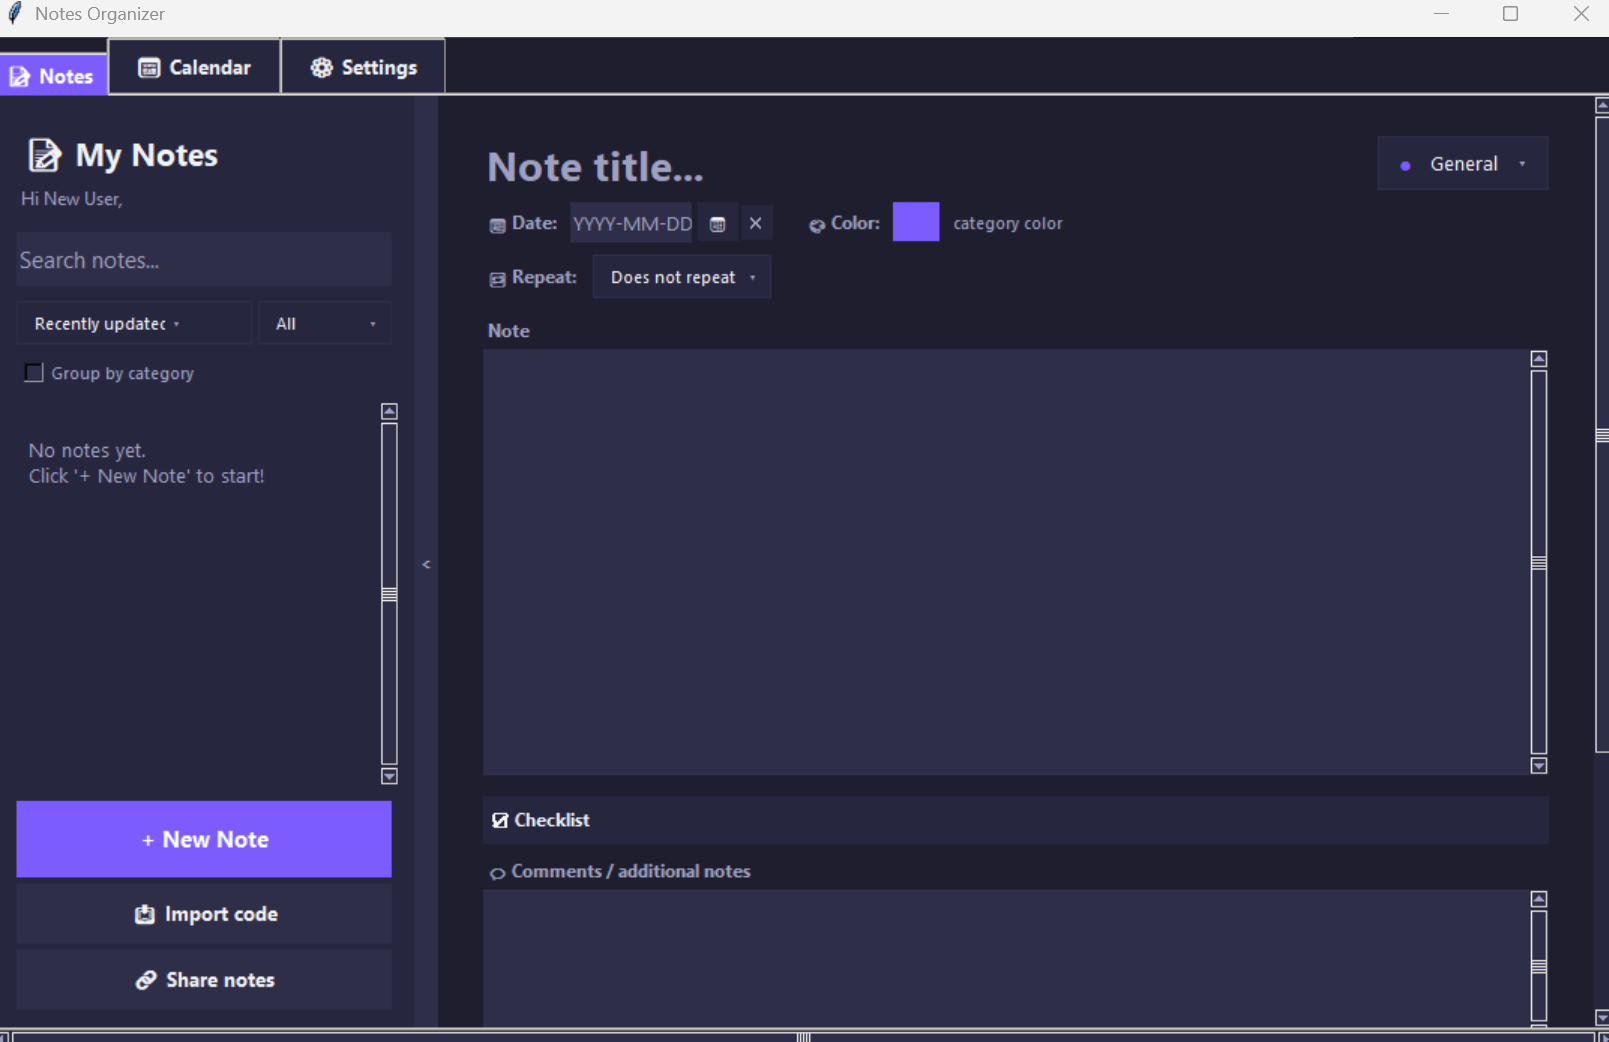
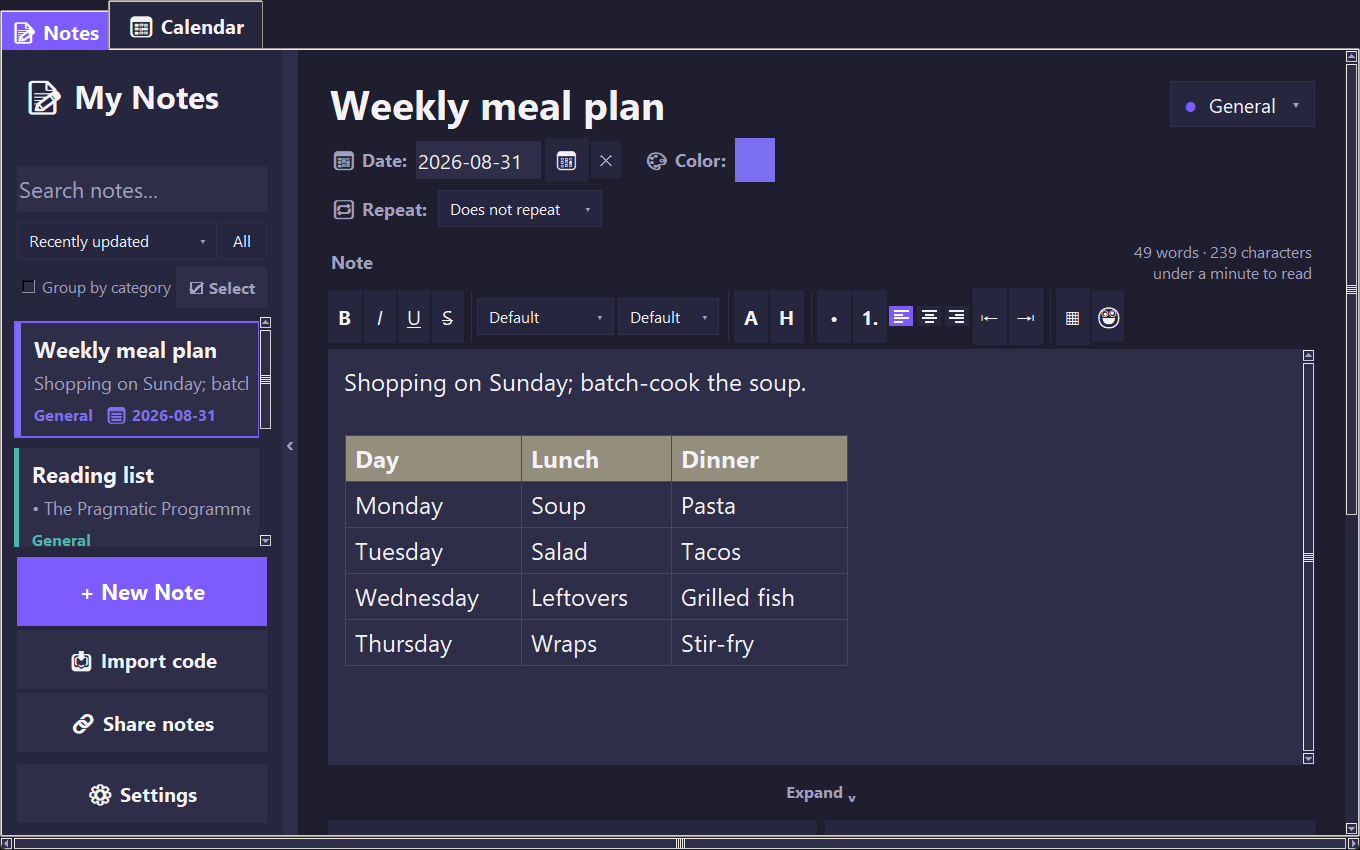
docs: the project introduces itself — tables everywhere they belong, a lived-in screenshot
The README's feature list gains the Tables block and its placeholder
caption goes: main-window.png is now a staged, real capture of the app
holding a meal-plan table with a highlighted header (taken from the
actual app in a sealed sandbox). The User Guide gains a full Tables
section in its own plain voice, with a cropped screenshot; ARCHITECTURE
gains 'Tables: plain text is the store, a drawn grid is the view' -- the
design decision an interviewer should meet first; ROADMAP's 'a simple
table feature' bullet catches up with what the branch actually built.

CLAUDE.md records the new standing rule: cross-feature verification --
a change is done when the OLD features still work with it, with qa
checks on the seams.

diff --git a/docs/USER_GUIDE.md b/docs/USER_GUIDE.md
@@ -65,6 +65,23 @@ Colours are treated carefully. If you copy from a site in dark mode, you get its
 
 Not every kind of styling can survive. A note can be bold, italic, underlined, struck through, coloured, highlighted, set in one of eight fonts, made into a list, indented and aligned. Anything a web page does beyond that — a heading style, a box, a background image — is dropped and its words kept, rather than being turned into an approximation of itself. Font sizes and typefaces from a web page are dropped for the same reason: the page is almost certainly using something this app does not offer, and picking the nearest one would claim the note is set in something it never was.
 
+### Tables
+
+The table button on the toolbar opens a small size grid — sweep across it to choose how many rows and columns, and a table appears at the cursor with the first cell ready to type into.
+
+![A table in a note, with a highlighted header row](screenshots/tables.png)
+
+A table works the way a spreadsheet has taught your hands to expect:
+
+- **Type** in a cell, press **Tab** to move to the next one (**Shift+Tab** goes back). Tab on the very last cell adds a fresh row, so a whole table can be filled without touching the mouse. **Enter** finishes the table and puts the cursor on the line below it.
+- **Click** any cell to edit it. **Drag** across cells to select a block of them — then **Ctrl+C** copies it, **Ctrl+V** somewhere else pastes it in the same shape, and **Delete** clears it. Copying works with the outside world in both directions: cells copied here paste into Excel as cells, and a table copied from Excel or a web page lands here as a real table.
+- **Right-click** a cell for everything else: merge the selected cells into one (their texts join), split a merge back apart, insert or delete rows and columns, duplicate whole columns to the end of the table, insert a checkmark or an emoji, and highlight cells from a small colour palette.
+- **Drag the line between two columns** to make a column wider or narrower; **double-click** the line to snap the column to its content. Narrowing below the content only shortens what is *drawn* (with an `…`) — the text itself is never cut.
+- **Hide a column** by selecting it top to bottom and right-clicking — it shrinks to a thin sliver, and right-clicking the sliver brings it back. Hiding only ever works on a fully selected column, so it is always clear what is about to disappear.
+- The **formatting toolbar works inside tables** too: select cells (or just have one open) and Bold, colours and highlights apply to them. The alignment buttons align the text inside the selected cells; to move the *table itself*, right-click it and choose **Center table on page** (or left / right).
+
+Under the hood a table is stored as plain, readable text inside the note — the same pipe-and-dash layout Markdown uses. That is why search finds words inside cells, why tables survive share codes, backups and export unchanged, and why a table pasted into any Markdown-aware tool arrives as a table. The bullet and numbering buttons deliberately do nothing to a table — a table is not a list, and turning its rows into list items would break it apart.
+
 ### How long a note takes to read
 
 Under the word and character counts, each note shows roughly how long it takes to read — "under a minute to read" for a short one, "about 4 minutes to read" for a longer one.

diff --git a/docs/ARCHITECTURE.md b/docs/ARCHITECTURE.md
@@ -148,6 +148,22 @@ The formatting toolbar wraps when it will not fit on one row, so no control can 
 
 That split is deliberate, and it was learned the hard way. A check that measures widget widths is testing whatever font the machine has: the same bar is 577px here and 827px under Xvfb, and which control lands on a row boundary — and therefore whether the bug shows at all — moves with it. Given numbers, the same inputs give the same answer everywhere, so the behaviour can be pinned down exactly. The widget side keeps only the measuring and the packing.
 
+### Tables: plain text is the store, a drawn grid is the view
+
+A table in a note is stored as ordinary lines of text in the note body, in Markdown's own table syntax:
+
+```
+| Day       | Lunch  |
+| :-------: | ------ |
+| Monday    | Soup   |
+```
+
+What the user *sees* is none of that: the pipe lines are hidden, and a canvas-drawn grid is embedded in their place — real cell borders, a highlighted header, merged cells, one floating entry box that materialises over whichever cell is being edited (the spreadsheet architecture: hundreds of cells are cheap to *draw*, and only one of them ever needs to be a live widget).
+
+Keeping the text as the single source of truth is the load-bearing decision. Search finds words inside cells because they are simply words in the note. Share codes, backups, export and word count carry tables with zero table-specific code. A table pasted from Excel or a web page becomes text and therefore a grid; a table copied out arrives in any Markdown-aware tool as a table. And the second row — `| :---: | --- |` — is not decoration: the dash count stores each column's hand-dragged width, the colons store its alignment, and a `~` marks a hidden column, so even *layout* survives every trip through plain text.
+
+The grid is rebuilt (never patched) at settled moments — load, paste, leaving the block, a structural edit — and every editing gesture writes through to the hidden text first, so the drawn view can always be thrown away and rebuilt from it. The costs live where they can be tested: Tk counts text columns in UTF-16 units (an emoji is two of them), embedded windows occupy an index but are skipped by character counts, and a rebuild mid-gesture destroys the canvas under the mouse — each of those has burned this codebase once, and each now has a regression check in `qa/qa1.py` and a war story in [ISSUES_LOG.md](ISSUES_LOG.md).
+
 ### Large lists: paginate, don't virtualize (yet)
 
 Trash and the multi-note Share panel both cap how many rows they build at once (50 and 100 respectively), with a "Show more" button to reveal the next batch, rather than rendering every entry immediately. This was enough to take the Trash panel from ~1.8s to ~100ms with 600 entries. The main note list doesn't do this yet — see [ROADMAP.md](ROADMAP.md) for real windowed virtualization, which would help further at very large note counts.

diff --git a/docs/ROADMAP.md b/docs/ROADMAP.md
@@ -77,7 +77,7 @@ This section is only about the app's own `APP_VERSION`/`CHANGELOG.md` numbering 
 ## Under consideration
 
 - **Rich text formatting, continued.** Phase 1 shipped in `0.31.39`: a Bold/Italic/Underline/Strikethrough toolbar and right-click menu, with keyboard shortcuts, applying either to a selection or to whatever's typed next. Phase 2a shipped in `0.32.44`: text color and highlight, added to the same toolbar with swatch-style pickers (no hex-code entry — see `CHANGELOG.md`). Phase 2b shipped in `0.34.51`: paragraph formatting — bullet and numbered lists with multilevel nesting, indentation and alignment (see `CHANGELOG.md` for why numbered levels are not lettered). Quote blocks shipped with it and were removed again in `0.36.54`. Phase 3 shipped in `0.35.51`: font size and family, per selection and as an app-wide default. Phase 4 shipped in `0.37.56`: paste that keeps its source formatting, with Ctrl+Shift+V for plain text, and copy that carries formatting out. **Rich text formatting is complete.** The table feature below now has the prerequisite it was waiting on — a pasted table arrives as HTML, and `core/richtext.py` is where its `<table>` would be understood.
-- **A simple table feature** for structured content within a note.
+- **Tables** — built on the `feat/tables` branch, release pending. What began as "a simple table feature" grew into a spreadsheet-style grid: drawn cells with one floating editor, merges, per-column width/alignment/hiding stored in Markdown's own separator-row syntax, cell highlighting from the formatting toolbar, block copy/paste that round-trips with Excel, and a table that can sit left/centred/right on the page. The note's plain text remains the single source of truth throughout — see [ARCHITECTURE.md](ARCHITECTURE.md), "Tables: plain text is the store".
 - **Note list virtualization.** The main note list currently builds a full widget per note on every refresh. Trash and the Share panel already cap what they render up front (see [ARCHITECTURE.md](ARCHITECTURE.md)); doing the same for the main list — or true windowed rendering, building only the cards currently scrolled into view — would help further at very large note counts (many hundreds to thousands).
 - **Split the UI into modules.** The data and rules layer is done — twelve modules under `noteorganizer/core/`, none importing tkinter (see [ARCHITECTURE.md](ARCHITECTURE.md)). **Split the UI into modules — done.** Five areas now live in `noteorganizer/ui/` as mixins: the calculator panel, the Settings page, the dialogs and popups, the calendar, and attachments. All the pure logic went down into `noteorganizer/core/` first. `note_organizer.py` is about 7,790 lines, from 11,147 when the reorganisation began — it has grown again since, with the rich-text work, but the pure logic behind that went into `core/` rather than into it.
 

diff --git a/README.md b/README.md
@@ -4,8 +4,8 @@ A fast, fully offline desktop notes app built with Python and Tkinter — no clo
 
 Built as a solo/pair project (developer + AI pairing partner) over an extended iterative development cycle, with a strong focus on real-world polish: a custom themed UI (no OS-native popups anywhere), a recurring-events engine, background-threaded import/export, and a defensive data layer that keeps the app usable even when things go wrong.
 
-![screenshot placeholder](docs/screenshots/main-window.png)
-*(screenshots to be added — see [docs/screenshots](docs/screenshots))*
+![The main window: a note with a table, the formatting toolbar, and the notes sidebar](docs/screenshots/main-window.png)
+*More screenshots throughout the [User Guide](docs/USER_GUIDE.md).*
 
 ---
 
@@ -32,6 +32,12 @@ Built as a solo/pair project (developer + AI pairing partner) over an extended i
 - End conditions: after N occurrences, by a date, or never
 - Per-occurrence editing and deletion ("just this one" vs "this and all future")
 - A full calendar view with month navigation, jump-to-date, and per-day coloring
+
+**Tables**
+- Spreadsheet-style tables drawn as a real grid: click a cell to edit, drag to select, Tab to move, Enter to leave
+- Excel-familiar editing: copy/paste blocks of cells (in and out of the app — a table pasted from Excel or a web page becomes a grid), merge cells, insert/delete/duplicate rows and columns, hide columns, drag a column edge to resize (double-click it to autofit)
+- Cell formatting from the same toolbar as regular text: bold, colors, highlights (with a theme-aware palette), per-cell alignment — plus the table itself can sit left, centred, or right on the page
+- Stored as plain readable text (Markdown table syntax) inside the note, so tables survive search, share codes, backups, and export, and travel cleanly to and from any Markdown-aware tool
 
 **Categories & templates**
 - Custom categories with colors, safely renameable/deletable (with reassignment of affected notes)

diff --git a/CLAUDE.md b/CLAUDE.md
@@ -122,6 +122,26 @@ After making a change:
 
 When fixing a bug, prefer adding a regression test when practical.
 
+### Cross-feature verification (standing rule, 2026-08-28)
+
+A new feature is not done when it works alone — it is done when the
+older features it crosses still work with it. Before reporting a change
+complete:
+
+1. List the existing features whose paths the change touches (theming,
+   save/load, export/share codes, paste, lists, focus and keyboard,
+   scrolling, undo — whatever applies).
+2. Probe each seam, and add a qa check for every risky one. The check
+   lands with the feature, not after a field test finds the gap.
+3. Accept the extra work; the theme switch silently stopped recoloring
+   tables precisely because no check covered that seam.
+
+The quality bar that goes with it: the app stays efficient enough for
+weak machines, and a failure must not reach the user's face — guard the
+UI entry points and let the crash log carry the details. Blanket
+try/except everywhere is not the goal; hiding bugs is worse than
+logging them.
+
 ### QA testing safety (hard rule — real data has been lost to this three times)
 
 **This rule covers EVERY test file — `qa*.py` AND all `test_*.py` — with
